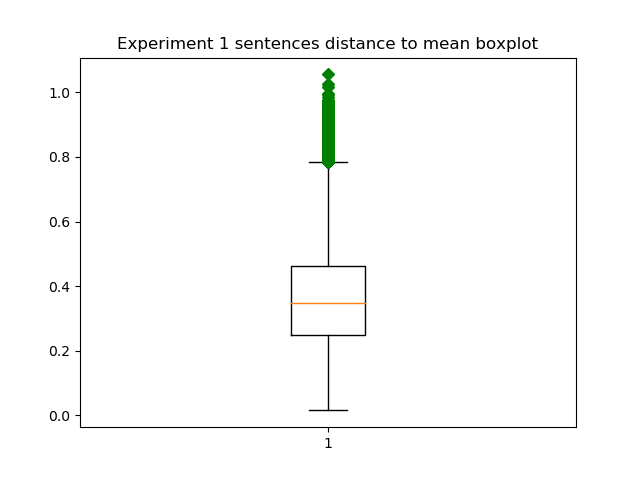
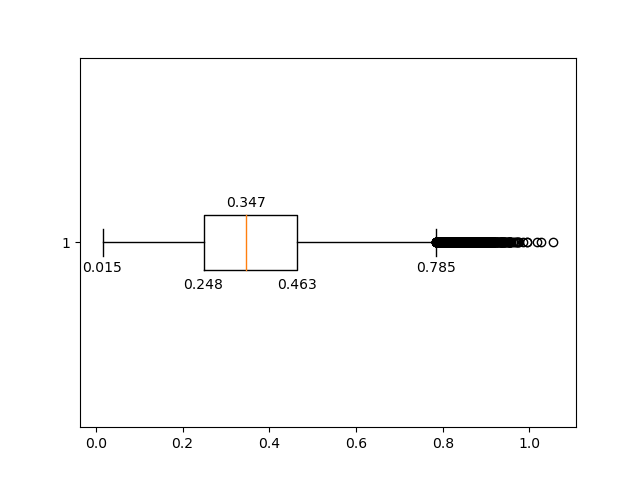
boxplots with percentile data

diff --git a/experiments.py b/experiments.py
@@ -399,10 +399,27 @@ def compute_similarities(video_id_init, video_id_end):
 def plot_similarities(all_videos_sentences_similarities, experiment, plot_title, threshold=None):
     """
     """
+
     # boxplot with outliers
     plt.figure()
-    plt.boxplot(all_videos_sentences_similarities, 0, 'gD')
-    plt.title(plot_title)
+
+    # get dictionary returned from boxplot
+    bp_dict = plt.boxplot(all_videos_sentences_similarities, vert=False)
+
+    for line in bp_dict['medians']:
+        x, y = line.get_xydata()[1]  # position for median line: [1] top of median line, [0] bottom of median line
+        plt.text(x, y + 0.02, '%.3f' % x, horizontalalignment='center')  # overlay median value above, centered
+
+    for line in bp_dict['boxes']:
+        x, y = line.get_xydata()[0]  # bottom of left line
+        plt.text(x, y - 0.02, '%.3f' % x, horizontalalignment='center', verticalalignment='top')
+        x, y = line.get_xydata()[3]  # bottom of right line
+        plt.text(x, y - 0.02, '%.3f' % x, horizontalalignment='center', verticalalignment='top')
+
+    for line in bp_dict['whiskers']:
+        x, y = line.get_xydata()[1]
+        plt.text(x, y - 0.08, '%.3f' % x, horizontalalignment='center')
+
     # plt.show()
     if threshold is None:
         threshold = config.closest_similarity_threshold
@@ -426,10 +443,11 @@ def main():
     elif config.options.experiment == 'experiment5':
         experiment5(first_video, last_video)
     elif config.options.experiment == 'create_boxplots_different_thresholds':
-        # for threshold in [0.4, 0.2, 0.1, 0.05, 0.025]:
-        #     experiment4(first_video, last_video, threshold)
-        #     experiment5(first_video, last_video, threshold)
-        for threshold in [0.18, 0.16, 0.14, 0.12]:
+        experiment1(first_video, last_video)
+        experiment3(first_video, last_video)
+        for threshold in [0.4, 0.2, 0.1, 0.05, 0.025]:
+            experiment4(first_video, last_video, threshold)
+        for threshold in [0.2, 0.18, 0.16, 0.14, 0.12, 0.1]:
             experiment5(first_video, last_video, threshold)
     elif config.options.experiment == 'create_video_captions':
         create_video_captions(first_video, last_video)

diff --git a/proves.py b/proves.py
@@ -1,6 +1,52 @@
+from pylab import *
 import pickle
 
 
-video_captions_all = pickle.load(open("pickle/video_captions_3000.pickle", "rb"))
-video_captions_small = pickle.load(open("pickle_small/video_captions_3000.pickle", "rb"))
-import ipdb; ipdb.set_trace()
+# from http://matplotlib.org/examples/pylab_examples/boxplot_demo.html
+
+# # fake up some data
+# spread= rand(50) * 100
+# center = ones(25) * 50
+# flier_high = rand(10) * 100 + 100
+# flier_low = rand(10) * -100
+# data =concatenate((spread, center, flier_high, flier_low), 0)
+
+# # fake up some more data
+# spread= rand(50) * 100
+# center = ones(25) * 40
+# flier_high = rand(10) * 100 + 100
+# flier_low = rand(10) * -100
+# d2 = concatenate( (spread, center, flier_high, flier_low), 0 )
+# data.shape = (-1, 1)
+# d2.shape = (-1, 1)
+# #data = concatenate( (data, d2), 1 )
+# # Making a 2-D array only works if all the columns are the
+# # same length.  If they are not, then use a list instead.
+# # This is actually more efficient because boxplot converts
+# # a 2-D array into a list of vectors internally anyway.
+# data = [data, d2, d2[::2,0]]
+
+
+data = pickle.load(open("pickle/all_videos_sentences_similarities_exp1.pickle", "rb"))
+
+# multiple box plots on one figure
+figure()
+
+# get dictionary returned from boxplot
+bp_dict = boxplot(data, vert=False)
+
+for line in bp_dict['medians']:
+    x, y = line.get_xydata()[1]  # position for median line: [1] top of median line, [0] bottom of median line
+    text(x, y + 0.02, '%.3f' % x, horizontalalignment='center')  # overlay median value above, centered
+
+for line in bp_dict['boxes']:
+    x, y = line.get_xydata()[0]  # bottom of left line
+    text(x, y - 0.02, '%.3f' % x, horizontalalignment='center', verticalalignment='top')
+    x, y = line.get_xydata()[3]  # bottom of right line
+    text(x, y - 0.02, '%.3f' % x, horizontalalignment='center', verticalalignment='top')
+
+for line in bp_dict['whiskers']:
+    x, y = line.get_xydata()[1]
+    plt.text(x, y - 0.08, '%.3f' % x, horizontalalignment='center')
+
+show()

diff --git a/config.py b/config.py
@@ -55,7 +55,7 @@ else:
 
 
 # Threshold to consider in experiments using closest similarity measures
-closest_similarity_threshold = 0.2
+closest_similarity_threshold = 0.05
 
 
 # When launching experiments that would change the previously created pickle
